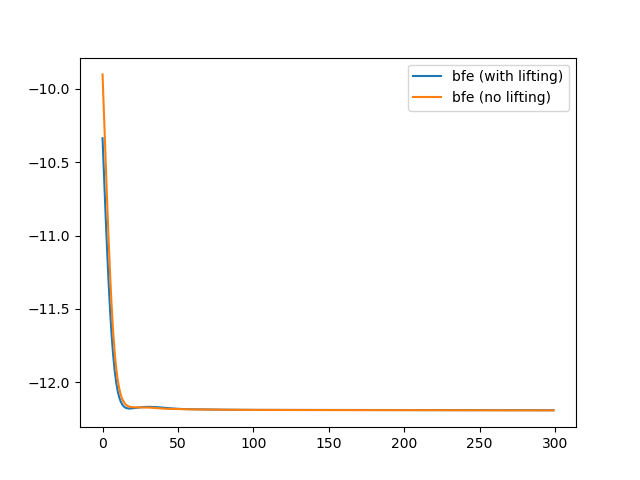
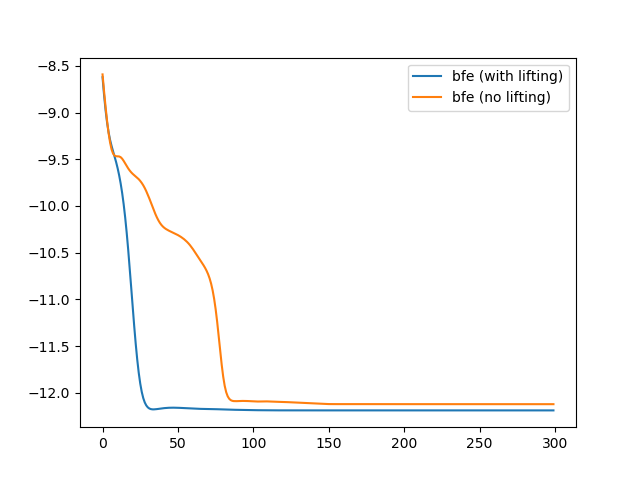
bad news, the idea of lifting osi might not work.

diff --git a/LiftedOneShot.py b/LiftedOneShot.py
@@ -1,3 +1,4 @@
+from CompressedGraph import CompressedGraph
 import numpy as np
 from numpy.polynomial.hermite import hermgauss
 from math import sqrt, pi, e, log
@@ -8,7 +9,8 @@ class OneShot:
     var_threshold = 1
 
     def __init__(self, g, num_mixtures=5, num_quadrature_points=3):
-        self.g = g
+        self.g = CompressedGraph(g)
+        self.g.run()
         self.init_rv()
 
         self.K = num_mixtures
@@ -81,7 +83,7 @@ class OneShot:
             for k in range(self.K):
                 arg = (True, self.eta[rv][k]) if rv.domain.continuous else (False, (rv.domain.values, self.eta[rv][k]))
 
-                g_w[k] -= self.expectation(f_w, arg)
+                g_w[k] -= len(rv.rvs) * self.expectation(f_w, arg)
 
         for f in self.g.factors:
             if len(f.nb) > 1:
@@ -96,7 +98,7 @@ class OneShot:
                         else:
                             args.append((False, (rv.domain.values, self.eta[rv][k])))
 
-                    g_w[k] -= self.expectation(f_w, *args)
+                    g_w[k] -= len(f.factors) * self.expectation(f_w, *args)
 
         return self.w * (g_w - np.sum(g_w * self.w))
 
@@ -164,15 +166,15 @@ class OneShot:
                     g_c[k, d] -= log(phi.potential.get((xi,))) - (1 - rv.N) * log(self.rvs_belief([xi], [rv]))
 
             for f in rv.nb:
+                idx = f.nb.index(rv)
                 args = list()
-                for rv_ in f.nb:
-                    if rv_ is not rv:
+                for i, rv_ in enumerate(f.nb):
+                    if i is not idx:
                         if rv.domain.continuous:
                             args.append((True, self.eta[rv_][k]))
                         else:
                             args.append((False, (rv.domain.values, self.eta[rv_][k])))
 
-                idx = f.nb.index(rv)
                 for d, xi in enumerate(rv.domain.values):
                     if len(f.nb) > 1:
                         def f_c(x):
@@ -200,7 +202,7 @@ class OneShot:
             for k in range(self.K):
                 arg = (True, self.eta[rv][k]) if rv.domain.continuous else (False, (rv.domain.values, self.eta[rv][k]))
 
-                energy -= self.w[k] * self.expectation(f_bfe, arg)
+                energy -= len(rv.rvs) * self.w[k] * self.expectation(f_bfe, arg)
 
         for f in self.g.factors:
             if len(f.nb) > 1:
@@ -215,7 +217,7 @@ class OneShot:
                         else:
                             args.append((False, (rv.domain.values, self.eta[rv][k])))
 
-                    energy -= self.w[k] * self.expectation(f_bfe, *args)
+                    energy -= len(f.factors) * self.w[k] * self.expectation(f_bfe, *args)
 
         return energy
 
@@ -285,9 +287,9 @@ class OneShot:
         # compute condition weight
         self.condition_weight = np.copy(self.w)
 
-        for rv in self.g.rvs:
+        for rv in self.g.g.rvs:
             if rv.value is not None:
-                eta = self.eta[rv]
+                eta = self.eta[rv.cluster]
 
                 if rv.domain.continuous:
                     for k in range(self.K):
@@ -302,7 +304,7 @@ class OneShot:
     def belief(self, x, rv):
         if rv.value is None:
             b = np.copy(self.condition_weight)
-            eta = self.eta[rv]
+            eta = self.eta[rv.cluster]
 
             if rv.domain.continuous:
                 for k in range(self.K):
@@ -320,7 +322,7 @@ class OneShot:
         if rv.value is None:
             if rv.domain.continuous:
                 p = dict()
-                for x in self.eta[rv][:, 0]:
+                for x in self.eta[rv.cluster][:, 0]:
                     p[x] = self.belief(x, rv)
                 res = max(p.keys(), key=(lambda k: p[k]))
             else:

diff --git a/MLNPotential.py b/MLNPotential.py
@@ -35,11 +35,3 @@ class MLNPotential(Potential):
 
     def get(self, parameters):
         return e ** (self.formula(parameters) * self.w)
-
-
-class MLNNodePotential(Potential):
-    def __init__(self):
-        Potential.__init__(self, symmetric=False)
-
-    def get(self, parameters):
-        return e ** (0 if 0 <= parameters[0] <= 1 else -10)

diff --git a/EPBPLogVersion.py b/EPBPLogVersion.py
@@ -242,8 +242,8 @@ class EPBP:
 
         # BP iteration
         for i in range(iteration):
+            print(f'iteration: {i + 1}')
             if log_enable:
-                print(f'iteration: {i + 1}')
                 time_start = time.clock()
             # calculate messages from rv to f
             for rv in self.g.rvs:

diff --git a/Demo/DiscreteOneShotDemo.py b/Demo/DiscreteOneShotDemo.py
@@ -64,7 +64,7 @@ print(rvs_table)
 #     if rv.value is None:  # only test non-evidence nodes
 #         print(key, osi.map(rv))
 
-from OneShot import OneShot
+from LiftedOneShot import OneShot
 
 # np.random.seed(9)
 osi = OneShot(g, num_mixtures=10, num_quadrature_points=8)
